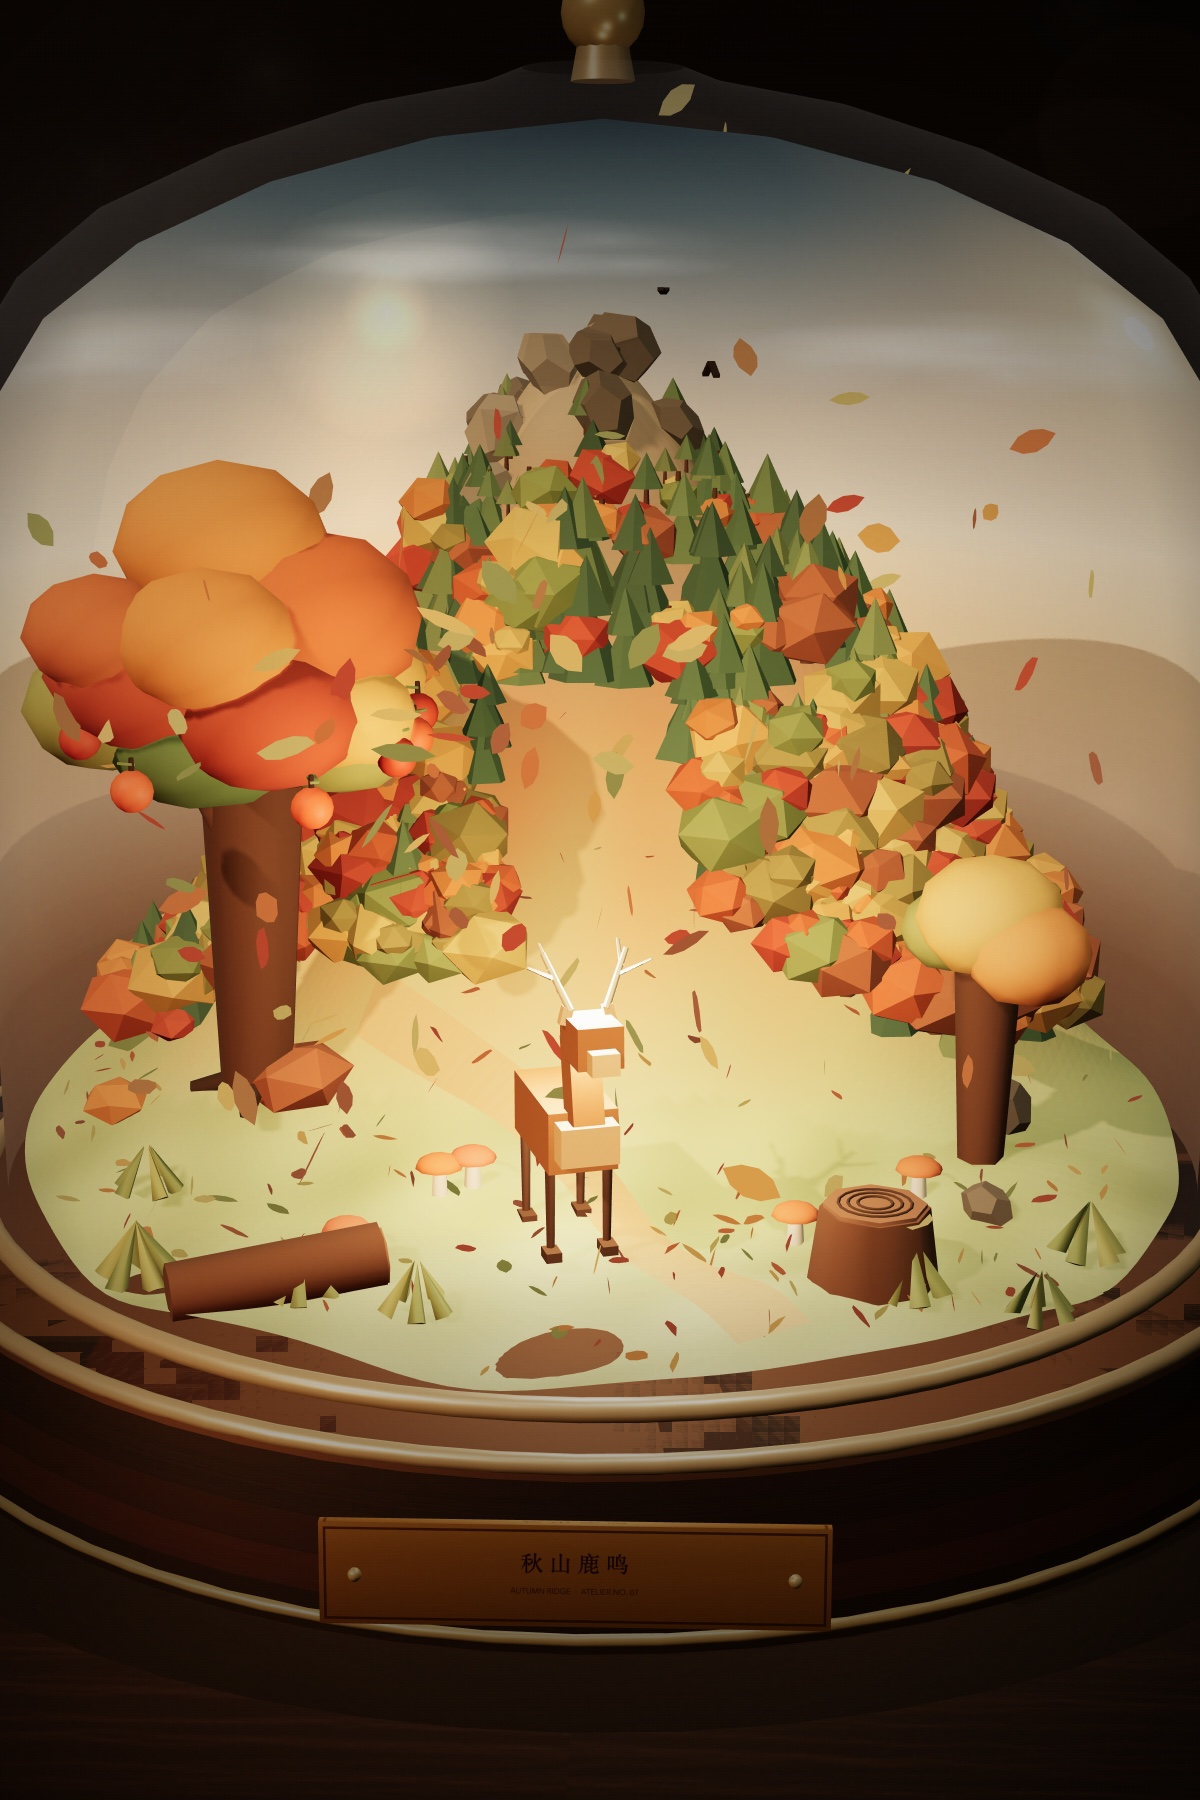
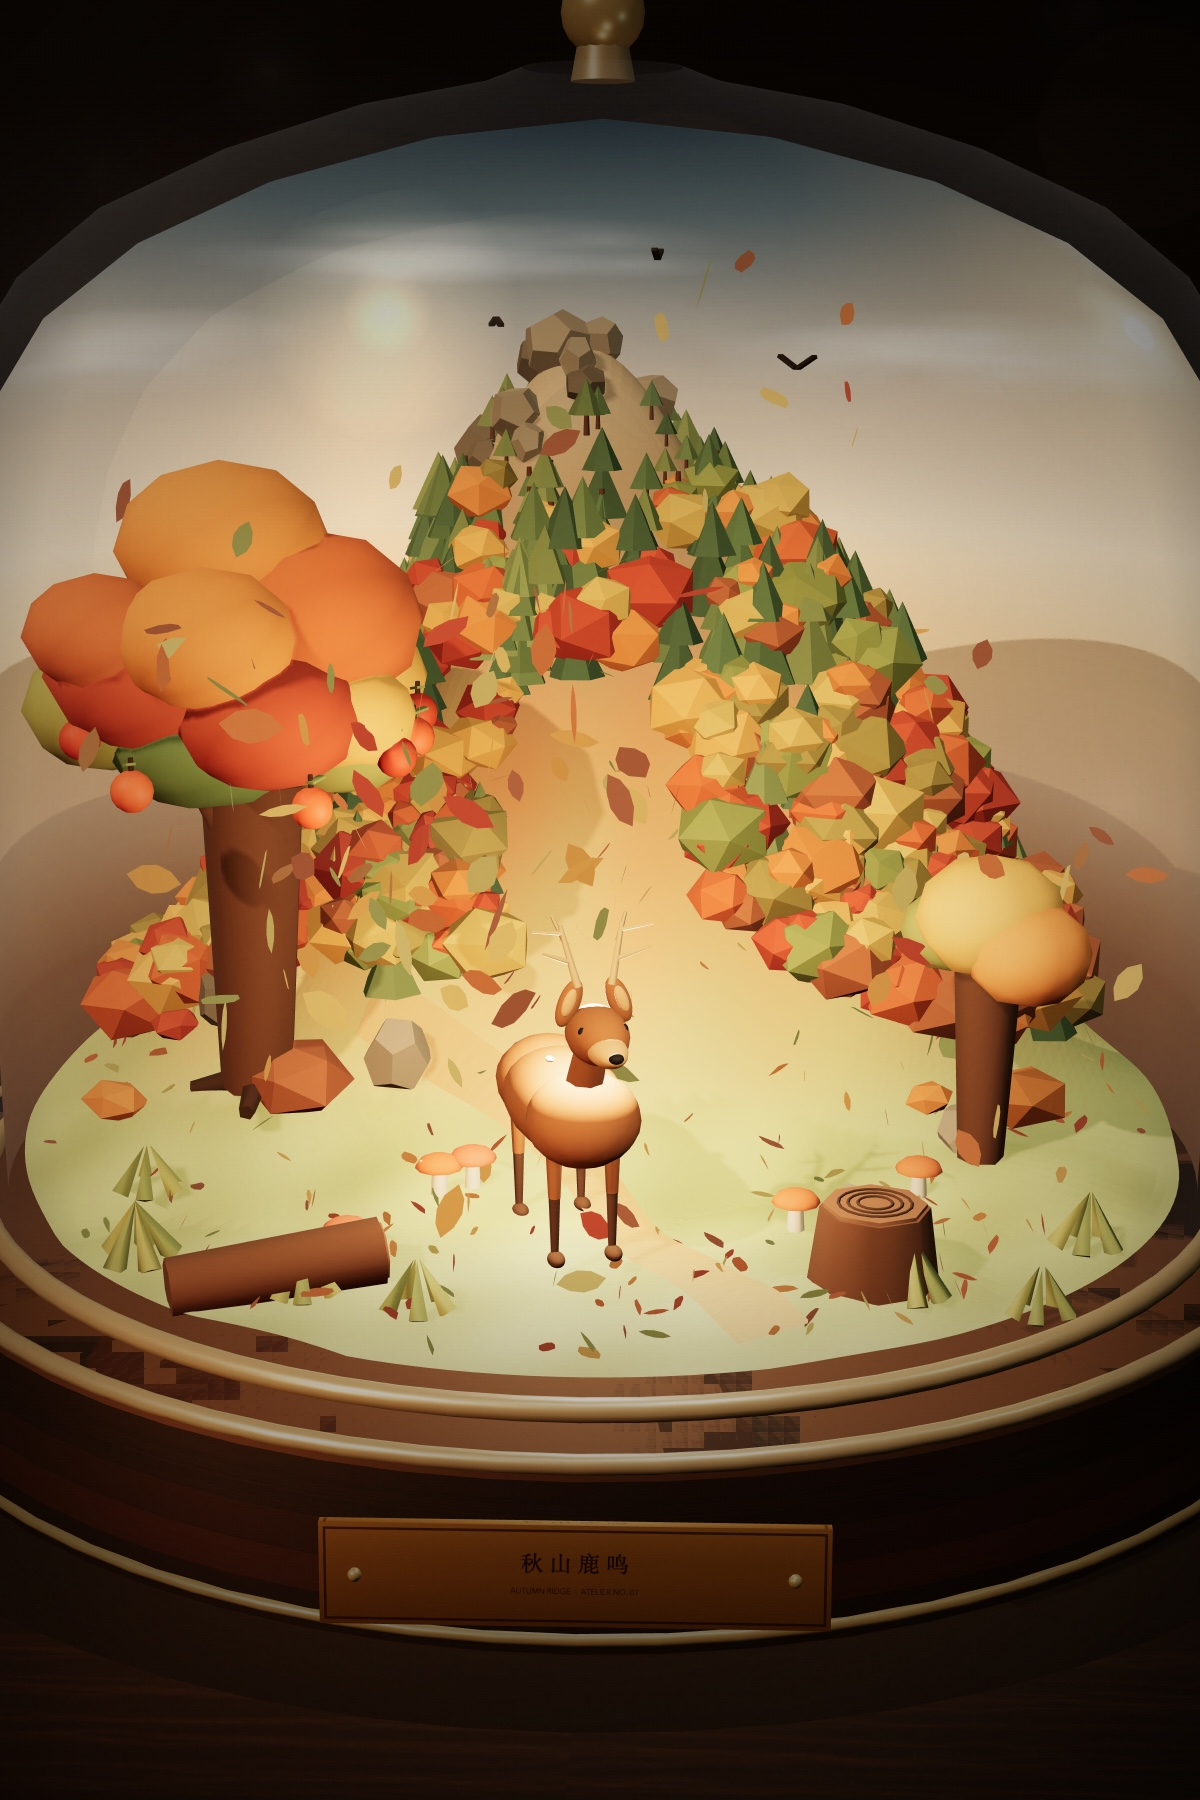
feat: 精修秋林动物、修正地面闪斑并统一翻转拖拽纵向视角
- 重做鹿/熊/狐/松鼠模型，改用平滑椭圆、锥形耳、曲线尾巴与完整四肢，熊增加口鼻、耳朵和爪垫细节
- 地块高度增加下限，避免边缘沉入底座产生浅深斑块闪烁
- 七个作品统一反转鼠标拖拽的纵向视角方向
- 重新生成秋山鹿鸣海报

diff --git a/autumn-forest/index.html b/autumn-forest/index.html
@@ -319,10 +319,10 @@ const M = {
   fruit: std(0xd85a34, .58),
   fruitDark: std(0xb84227, .62),
   fruitLeaf: std(0x77854a, .85),
-  deer: std(0x9a6236, .86),
-  deerLight: std(0xcfa573, .86),
+  deer: std(0x8f5a33, .88),
+  deerLight: std(0xc49563, .88),
   deerDark: std(0x503522, .86),
-  antler: std(0xdcc79c, .78),
+  antler: std(0xb99b6b, .82),
   bear: std(0x5c3d29, .9),
   bearDark: std(0x3a2517, .92),
   bearSnout: std(0xb78c60, .88),
@@ -561,6 +561,36 @@ function blob(parent, sx, sy, sz, mat, x = 0, y = 0, z = 0, detail = 1){
   parent.add(m);
   return m;
 }
+const ORB_GEO = new THREE.SphereGeometry(1, 18, 12);
+const CONE_GEO = new THREE.ConeGeometry(1, 1, 8);
+function orb(parent, sx, sy, sz, mat, x = 0, y = 0, z = 0, rx = 0, ry = 0, rz = 0){
+  const m = new THREE.Mesh(ORB_GEO, mat);
+  m.scale.set(sx, sy, sz);
+  m.position.set(x, y, z);
+  m.rotation.set(rx, ry, rz);
+  m.castShadow = true;
+  m.receiveShadow = true;
+  parent.add(m);
+  return m;
+}
+function cone(parent, radius, height, mat, x = 0, y = 0, z = 0, rx = 0, ry = 0, rz = 0){
+  const m = new THREE.Mesh(CONE_GEO, mat);
+  m.scale.set(radius, height, radius);
+  m.position.set(x, y, z);
+  m.rotation.set(rx, ry, rz);
+  m.castShadow = true;
+  m.receiveShadow = true;
+  parent.add(m);
+  return m;
+}
+function curveTube(parent, points, radius, mat, segments = 18, radial = 8){
+  const curve = new THREE.CatmullRomCurve3(points);
+  const m = new THREE.Mesh(new THREE.TubeGeometry(curve, segments, radius, radial, false), mat);
+  m.castShadow = true;
+  m.receiveShadow = true;
+  parent.add(m);
+  return m;
+}
 function softSprite(color, scale, opacity, additive = false){
   const mat = new THREE.SpriteMaterial({
     map: softTex, color, transparent: true, opacity,
@@ -772,7 +802,7 @@ function terrainH(x, z){
   const shoulder = .38 * Math.exp(-(((x + 1.14) ** 2) / .8 + ((z + .18) ** 2) / .5));
   const ripple = .035 * Math.sin(x * 4.2 + z * 3.1) + .022 * Math.cos(z * 5.4 - x * 2.2);
   const clearing = .012 * Math.sin(x * 7.0 + 1.2) * Math.cos(z * 6.0);
-  return .048 + peakA + peakB + shoulder + ripple + clearing;
+  return Math.max(.06, .048 + peakA + peakB + shoulder + ripple + clearing);
 }
 
 const RINGS = 54, SEGS = 168;
@@ -1520,38 +1550,47 @@ function makeDeer(){
   const root = new THREE.Group();
   const parts = { kind: 'deer', speed: .42, name: '小鹿', root, legs: [] };
   const body = new THREE.Group();
-  body.position.y = .32;
+  body.position.y = .37;
   root.add(body);
-  block(body, .18, .16, .36, M.deer, 0, 0, 0);
-  block(body, .15, .1, .16, M.deerLight, 0, .01, .17);
-  const neck = block(body, .08, .22, .09, M.deer, 0, .16, .17, -.22);
+  orb(body, .15, .12, .3, M.deer, 0, 0, 0);
+  orb(body, .145, .12, .14, M.deer, 0, .01, .18);
+  orb(body, .14, .115, .14, M.deer, 0, .005, -.17);
+  orb(body, .06, .05, .045, M.deerLight, 0, -.03, .215);
+  orb(body, .012, .007, .018, M.cream, -.055, .135, .06);
+  orb(body, .01, .006, .016, M.cream, .065, .13, -.04);
+  cylBetween(root, new THREE.Vector3(0, .43, .16), new THREE.Vector3(0, .61, .27), .052, .042, M.deer, 8);
   const head = new THREE.Group();
-  head.position.set(0, .27, .23);
-  body.add(head);
-  block(head, .115, .105, .17, M.deer, 0, .02, .03);
-  block(head, .07, .055, .075, M.deerLight, 0, -.008, .125);
-  block(head, .026, .045, .025, M.deerLight, -.055, .075, -.01, 0, 0, -.25);
-  block(head, .026, .045, .025, M.deerLight, .055, .075, -.01, 0, 0, .25);
-  block(head, .022, .022, .016, M.black, -.04, .04, .095);
-  block(head, .022, .022, .016, M.black, .04, .04, .095);
+  head.position.set(0, .64, .29);
+  root.add(head);
+  orb(head, .075, .07, .12, M.deer, 0, 0, .02);
+  orb(head, .048, .038, .085, M.deerLight, 0, -.012, .105);
+  orb(head, .018, .013, .018, M.black, 0, -.006, .188);
   for (const side of [-1, 1]){
+    orb(head, .012, .012, .01, M.black, side * .05, .028, .072);
+    orb(head, .028, .062, .016, M.deer, side * .062, .075, -.012, 0, 0, side * .38);
+    orb(head, .015, .036, .009, M.deerLight, side * .066, .08, .002, 0, 0, side * .38);
     const a = new THREE.Group();
-    a.position.set(side * .045, .09, .0);
+    a.position.set(side * .042, .115, -.005);
     head.add(a);
-    cylBetween(a, new THREE.Vector3(0, 0, 0), new THREE.Vector3(side * .06, .14, -.03), .01, .007, M.antler, 4);
-    cylBetween(a, new THREE.Vector3(side * .04, .08, -.018), new THREE.Vector3(side * .11, .12, .02), .007, .004, M.antler, 4);
-    cylBetween(a, new THREE.Vector3(side * .045, .1, -.02), new THREE.Vector3(side * .055, .15, -.09), .007, .004, M.antler, 4);
+    cylBetween(a, new THREE.Vector3(0, 0, 0), new THREE.Vector3(side * .035, .145, -.035), .011, .006, M.antler, 5);
+    cylBetween(a, new THREE.Vector3(side * .018, .06, -.015), new THREE.Vector3(side * .09, .095, .02), .008, .004, M.antler, 4);
+    cylBetween(a, new THREE.Vector3(side * .022, .1, -.025), new THREE.Vector3(side * .05, .165, -.055), .007, .004, M.antler, 4);
+    cylBetween(a, new THREE.Vector3(side * .03, .128, -.03), new THREE.Vector3(side * .11, .14, -.02), .006, .003, M.antler, 4);
   }
-  const hips = [[-.075, .13], [.075, .13], [-.075, -.13], [.075, -.13]];
+  const hips = [[-.075, .18], [.075, .18], [-.085, -.16], [.085, -.16]];
   for (const [hx, hz] of hips){
     const leg = new THREE.Group();
-    leg.position.set(hx, .3, hz);
+    leg.position.set(hx, .35, hz);
     root.add(leg);
-    cylBetween(leg, new THREE.Vector3(0, 0, 0), new THREE.Vector3(0, -.27, 0), .015, .011, M.deerDark, 5);
-    block(leg, .04, .025, .06, M.deerDark, 0, -.285, .012);
+    cylBetween(leg, new THREE.Vector3(0, 0, 0), new THREE.Vector3(0, -.17, 0), .024, .016, M.deer, 7);
+    cylBetween(leg, new THREE.Vector3(0, -.17, 0), new THREE.Vector3(0, -.315, 0), .015, .01, M.deerDark, 7);
+    orb(leg, .022, .019, .034, M.deerDark, 0, -.33, .012);
     parts.legs.push(leg);
   }
-  const tail = block(root, .035, .06, .03, M.deerLight, 0, .31, -.2, .35);
+  const tail = new THREE.Group();
+  tail.position.set(0, .41, -.31);
+  root.add(tail);
+  orb(tail, .028, .05, .025, M.deerLight, 0, 0, 0, .4, 0, 0);
   parts.head = head;
   parts.tail = tail;
   root.castShadow = true;
@@ -1561,96 +1600,132 @@ function makeDeer(){
 function makeBear(){
   const root = new THREE.Group();
   const parts = { kind: 'bear', speed: .3, name: '熊', root, legs: [] };
-  const body = blob(root, .24, .23, .34, M.bear, 0, .27, 0, 1);
-  body.castShadow = true;
-  blob(root, .19, .17, .2, M.bear, 0, .37, .15, 1);
-  const head = new THREE.Group();
-  head.position.set(0, .42, .27);
-  root.add(head);
-  blob(head, .12, .11, .12, M.bear, 0, 0, 0, 1);
-  blob(head, .06, .05, .07, M.bearSnout, 0, -.002, .095, 1);
-  const nose = block(head, .03, .022, .02, M.black, 0, .015, .14, 0, 0, 0, false);
-  for (const side of [-1, 1]){
-    blob(head, .035, .035, .02, M.bearDark, side * .075, .07, -.01, 0);
-    block(head, .014, .014, .012, M.black, side * .04, .025, .075, 0, 0, 0, false);
-  }
-  for (const [x, z] of [[-.11, .13], [.11, .13], [-.11, -.13], [.11, -.13]]){
+  for (const [x, z] of [[-.14, .2], [.14, .2], [-.15, -.17], [.15, -.17]]){
     const leg = new THREE.Group();
-    leg.position.set(x, .18, z);
+    leg.position.set(x, .29, z);
     root.add(leg);
-    cylBetween(leg, new THREE.Vector3(0, 0, 0), new THREE.Vector3(0, -.16, 0), .032, .026, M.bearDark, 5);
-    block(leg, .07, .035, .09, M.bearDark, 0, -.17, .012);
+    cylBetween(leg, new THREE.Vector3(0, 0, 0), new THREE.Vector3(0, -.23, 0), .06, .048, M.bear, 8);
+    orb(leg, .065, .03, .09, M.bearDark, 0, -.25, .02);
     parts.legs.push(leg);
   }
-  const tail = blob(root, .04, .04, .035, M.bearDark, 0, .3, -.2, 0);
+  orb(root, .235, .2, .34, M.bear, 0, .35, .01);
+  orb(root, .18, .15, .19, M.bear, 0, .44, .12);
+  orb(root, .19, .17, .17, M.bear, 0, .34, -.19);
+  orb(root, .16, .15, .14, M.bear, 0, .35, .24);
+  orb(root, .08, .07, .06, M.bearDark, 0, .4, .27);
+  const head = new THREE.Group();
+  head.position.set(0, .49, .34);
+  root.add(head);
+  orb(head, .14, .13, .135, M.bear, 0, 0, 0);
+  orb(head, .08, .065, .1, M.bearSnout, 0, -.025, .12);
+  orb(head, .03, .022, .03, M.black, 0, -.018, .215);
+  for (const side of [-1, 1]){
+    orb(head, .055, .06, .035, M.bear, side * .09, .115, -.015, 0, 0, side * .16);
+    orb(head, .028, .035, .014, M.bearDark, side * .09, .115, .008, 0, 0, side * .16);
+    orb(head, .012, .013, .012, M.black, side * .055, .035, .118);
+  }
+  const tail = orb(root, .05, .04, .04, M.bearDark, 0, .43, -.36);
   parts.head = head;
   parts.tail = tail;
+  root.castShadow = true;
+  root.traverse(o => { if (o.isMesh){ o.castShadow = true; o.receiveShadow = true; } });
   return parts;
 }
 function makeFox(){
   const root = new THREE.Group();
   const parts = { kind: 'fox', speed: .55, name: '赤狐', root, legs: [] };
-  const body = block(root, .11, .1, .28, M.fox, 0, .17, 0);
-  block(root, .08, .07, .11, M.foxLight, 0, .13, .12);
-  const head = new THREE.Group();
-  head.position.set(0, .24, .16);
-  root.add(head);
-  block(head, .1, .09, .13, M.fox, 0, 0, .02);
-  block(head, .055, .04, .06, M.foxLight, 0, -.025, .1);
-  block(head, .02, .018, .016, M.black, 0, -.005, .135, 0, 0, 0, false);
-  for (const side of [-1, 1]){
-    const ear = block(head, .035, .065, .025, M.fox, side * .04, .075, -.01, 0, 0, side * .12);
-    block(head, .02, .025, .012, M.foxDark, side * .04, .04, .075, 0, 0, 0, false);
-  }
-  for (const [x, z] of [[-.04, .1], [.04, .1], [-.04, -.1], [.04, -.1]]){
+  for (const [x, z] of [[-.05, .14], [.05, .14], [-.055, -.13], [.055, -.13]]){
     const leg = new THREE.Group();
-    leg.position.set(x, .13, z);
+    leg.position.set(x, .16, z);
     root.add(leg);
-    cylBetween(leg, new THREE.Vector3(0, 0, 0), new THREE.Vector3(0, -.12, 0), .011, .008, M.foxDark, 4);
+    cylBetween(leg, new THREE.Vector3(0, 0, 0), new THREE.Vector3(0, -.13, 0), .016, .011, M.foxDark, 6);
+    orb(leg, .022, .014, .03, M.foxDark, 0, -.145, .008);
     parts.legs.push(leg);
   }
+  orb(root, .12, .095, .29, M.fox, 0, .21, 0);
+  orb(root, .095, .085, .1, M.fox, 0, .22, -.11);
+  orb(root, .07, .06, .09, M.foxLight, 0, .185, .17);
+  cylBetween(root, new THREE.Vector3(0, .25, .14), new THREE.Vector3(0, .32, .24), .048, .035, M.fox, 7);
+  const head = new THREE.Group();
+  head.position.set(0, .34, .27);
+  root.add(head);
+  orb(head, .082, .07, .095, M.fox, 0, 0, .01);
+  orb(head, .045, .038, .04, M.foxLight, 0, -.022, .075);
+  cylBetween(head, new THREE.Vector3(0, -.012, .07), new THREE.Vector3(0, -.022, .195), .04, .012, M.foxLight, 7);
+  orb(head, .018, .014, .016, M.black, 0, -.012, .215);
+  for (const side of [-1, 1]){
+    cone(head, .055, .1, M.fox, side * .052, .088, -.018, -.05, 0, side * .2);
+    cone(head, .026, .06, M.foxDark, side * .054, .09, -.002, -.05, 0, side * .2);
+    orb(head, .012, .013, .012, M.black, side * .042, .022, .058);
+  }
   const tail = new THREE.Group();
-  tail.position.set(0, .22, -.16);
+  tail.position.set(0, .24, -.2);
   root.add(tail);
-  const t1 = blob(tail, .055, .05, .13, M.fox, 0, .02, -.06, 0);
-  t1.rotation.x = -.45;
-  const t2 = blob(tail, .045, .04, .07, M.foxLight, 0, .07, -.15, 0);
-  t2.rotation.x = -.25;
+  const tailBase = new THREE.Group();
+  tailBase.rotation.y = .5;
+  tail.add(tailBase);
+  curveTube(tailBase, [
+    new THREE.Vector3(0, .01, 0),
+    new THREE.Vector3(.02, .04, -.11),
+    new THREE.Vector3(.06, .09, -.21),
+    new THREE.Vector3(.09, .15, -.29),
+    new THREE.Vector3(.1, .21, -.33)
+  ], .068, M.fox, 20, 9);
+  orb(tailBase, .06, .06, .07, M.fox, 0, .01, -.02, -.5, 0, 0);
+  orb(tailBase, .04, .04, .055, M.foxLight, .1, .22, -.34, -.1, 0, 0);
   parts.head = head;
   parts.tail = tail;
+  root.castShadow = true;
+  root.traverse(o => { if (o.isMesh){ o.castShadow = true; o.receiveShadow = true; } });
   return parts;
 }
 function makeSquirrel(){
   const root = new THREE.Group();
   const parts = { kind: 'squirrel', speed: .48, name: '松鼠', root, legs: [] };
-  block(root, .075, .1, .1, M.squirrel, 0, .1, 0);
-  block(root, .055, .05, .06, M.squirrelLight, 0, .1, .05);
-  const head = new THREE.Group();
-  head.position.set(0, .18, .04);
-  root.add(head);
-  block(head, .075, .07, .085, M.squirrel, 0, 0, .02);
-  block(head, .04, .03, .035, M.squirrelLight, 0, -.015, .07);
-  block(head, .018, .016, .012, M.black, 0, .015, .065, 0, 0, 0, false);
-  for (const side of [-1, 1]){
-    block(head, .022, .035, .014, M.squirrel, side * .03, .055, -.005, 0, 0, side * .14);
-    block(head, .012, .012, .01, M.black, side * .028, .02, .055, 0, 0, 0, false);
-  }
-  for (const [x, z] of [[-.03, .04], [.03, .04], [-.03, -.04], [.03, -.04]]){
+  for (const [x, z] of [[-.035, .025], [.035, .025], [-.04, -.03], [.04, -.03]]){
     const leg = new THREE.Group();
-    leg.position.set(x, .07, z);
+    leg.position.set(x, .12, z);
     root.add(leg);
-    cylBetween(leg, new THREE.Vector3(0, 0, 0), new THREE.Vector3(0, -.06, 0), .009, .007, M.squirrel, 4);
+    cylBetween(leg, new THREE.Vector3(0, 0, 0), new THREE.Vector3(0, -.1, 0), .014, .01, M.squirrel, 6);
+    orb(leg, .022, .012, .03, M.squirrelLight, 0, -.105, .008);
     parts.legs.push(leg);
   }
+  orb(root, .075, .11, .075, M.squirrel, 0, .14, 0);
+  orb(root, .05, .06, .05, M.squirrel, 0, .1, -.03);
+  orb(root, .042, .055, .014, M.squirrelLight, 0, .145, .062);
+  orb(root, .015, .018, .012, M.squirrelLight, -.05, .155, .058);
+  orb(root, .015, .018, .012, M.squirrelLight, .05, .155, .058);
+  const head = new THREE.Group();
+  head.position.set(0, .265, .02);
+  root.add(head);
+  orb(head, .07, .065, .07, M.squirrel, 0, 0, 0);
+  orb(head, .035, .028, .04, M.squirrelLight, 0, -.008, .07);
+  orb(head, .012, .01, .012, M.black, 0, -.002, .112);
+  for (const side of [-1, 1]){
+    orb(head, .026, .02, .026, M.squirrelLight, side * .043, .01, .045);
+    orb(head, .011, .011, .01, M.black, side * .032, .022, .052);
+    cone(head, .024, .06, M.squirrel, side * .045, .068, -.008, 0, 0, side * .14);
+    cone(head, .012, .035, M.squirrelLight, side * .045, .075, .004, 0, 0, side * .14);
+  }
   const tail = new THREE.Group();
-  tail.position.set(0, .14, -.06);
+  tail.position.set(0, .17, -.07);
   root.add(tail);
-  blob(tail, .055, .09, .05, M.squirrel, 0, .06, -.05, 0).rotation.x = -.35;
-  blob(tail, .045, .08, .04, M.squirrel, 0, .14, -.09, 0).rotation.x = -.2;
-  blob(tail, .026, .042, .026, M.squirrel, 0, .2, -.1, 0);
-  blob(tail, .014, .02, .014, M.squirrelLight, 0, .235, -.105, 0);
+  const tailBase = new THREE.Group();
+  tailBase.rotation.y = .42;
+  tail.add(tailBase);
+  curveTube(tailBase, [
+    new THREE.Vector3(0, 0, 0),
+    new THREE.Vector3(0, .06, -.09),
+    new THREE.Vector3(.015, .14, -.16),
+    new THREE.Vector3(.03, .22, -.2),
+    new THREE.Vector3(.035, .295, -.16)
+  ], .064, M.squirrel, 22, 9);
+  orb(tailBase, .05, .05, .05, M.squirrel, 0, .01, -.02, 0, 0, 0);
+  orb(tailBase, .032, .04, .03, M.squirrelLight, .035, .3, -.155, 0, 0, 0);
   parts.head = head;
   parts.tail = tail;
+  root.castShadow = true;
+  root.traverse(o => { if (o.isMesh){ o.castShadow = true; o.receiveShadow = true; } });
   return parts;
 }
 animalModels.deer = makeDeer();
@@ -1661,8 +1736,8 @@ for (const key in animalModels){
   const a = animalModels[key];
   a.root.visible = false;
   jarRig.add(a.root);
-  const proxy = new THREE.Mesh(new THREE.SphereGeometry(key === 'deer' ? .3 : key === 'bear' ? .28 : key === 'fox' ? .18 : .14, 8, 6), new THREE.MeshBasicMaterial({ transparent:true, opacity:0, depthWrite:false, colorWrite:false }));
-  proxy.position.set(0, key === 'squirrel' ? .12 : .25, 0);
+  const proxy = new THREE.Mesh(new THREE.SphereGeometry(key === 'deer' ? .34 : key === 'bear' ? .38 : key === 'fox' ? .22 : .16, 10, 8), new THREE.MeshBasicMaterial({ transparent:true, opacity:0, depthWrite:false, colorWrite:false }));
+  proxy.position.set(0, key === 'deer' ? .34 : key === 'bear' ? .33 : key === 'fox' ? .22 : .18, 0);
   proxy.visible = true;
   proxy.userData.kind = 'animal';
   proxy.userData.animal = key;
@@ -1954,7 +2029,7 @@ canvas.addEventListener('pointermove', (e) => {
   prevPointer = { x: e.clientX, y: e.clientY };
   pointerTravel += Math.abs(dx) + Math.abs(dy);
   view.tAz = clamp(view.tAz - dx * .0046, -.62, .62);
-  view.tPolar = clamp(view.tPolar + dy * .0032, .91, 1.43);
+  view.tPolar = clamp(view.tPolar - dy * .0032, .91, 1.43);
   noteInteraction();
 });
 function endPointer(e, allowClick){

diff --git a/classroom-80s/index.html b/classroom-80s/index.html
@@ -2588,7 +2588,7 @@ canvas.addEventListener('pointermove', (e) => {
   prevPointer = { x: e.clientX, y: e.clientY };
   pointerMoved += Math.abs(dx) + Math.abs(dy);
   view.tAz = clamp(view.tAz - dx * .004, -.16, .48);
-  view.tPolar = clamp(view.tPolar + dy * .0026, 1.37, 1.49);
+  view.tPolar = clamp(view.tPolar - dy * .0026, 1.37, 1.49);
 });
 function endPointer(e, allowClick){
   const wasDragging = dragging;

diff --git a/tide-holiday/index.html b/tide-holiday/index.html
@@ -2619,7 +2619,7 @@ canvas.addEventListener('pointermove', (e) => {
   prevPointer = { x: e.clientX, y: e.clientY };
   pointerTravel += Math.abs(dx) + Math.abs(dy);
   view.tAz = clamp(view.tAz - dx * .0046, -.62, .62);
-  view.tPolar = clamp(view.tPolar + dy * .0032, .91, 1.43);
+  view.tPolar = clamp(view.tPolar - dy * .0032, .91, 1.43);
   noteInteraction();
 });
 function endPointer(e, allowClick){

diff --git a/snow-sophia/index.html b/snow-sophia/index.html
@@ -3790,7 +3790,7 @@ canvas.addEventListener('pointermove', (e) => {
   prevPointer = { x: e.clientX, y: e.clientY };
   pointerMoved += Math.abs(dx) + Math.abs(dy);
   view.tAz = clamp(view.tAz - dx * .0052, -1.05, 1.05);
-  view.tPolar = clamp(view.tPolar + dy * .0036, .82, 1.43);
+  view.tPolar = clamp(view.tPolar - dy * .0036, .82, 1.43);
   noteInteraction();
 });
 

diff --git a/tea-mountain/index.html b/tea-mountain/index.html
@@ -2343,7 +2343,7 @@ canvas.addEventListener('pointermove', (e) => {
   prevPointer = { x: e.clientX, y: e.clientY };
   pointerMoved += Math.abs(dx) + Math.abs(dy);
   view.tAz = clamp(view.tAz - dx * .0048, -.7, .7);
-  view.tPolar = clamp(view.tPolar + dy * .0032, .82, 1.22);
+  view.tPolar = clamp(view.tPolar - dy * .0032, .82, 1.22);
   noteInteraction();
 });
 

diff --git a/lantern-changan/index.html b/lantern-changan/index.html
@@ -1977,7 +1977,7 @@ canvas.addEventListener('pointermove', (e) => {
     spinVel = clamp(-dx * .09, -1.5, 1.5);
   } else {
     view.tAz = clamp(view.tAz - dx * .0044, -.58, .58);
-    view.tPolar = clamp(view.tPolar + dy * .003, .9, 1.27);
+    view.tPolar = clamp(view.tPolar - dy * .003, .9, 1.27);
   }
   noteInteraction();
 });

diff --git a/bottle-sea/index.html b/bottle-sea/index.html
@@ -4599,7 +4599,7 @@ canvas.addEventListener('pointermove', (e)=>{
   prevPointer.x = e.clientX;
   prevPointer.y = e.clientY;
   view.tAz -= dx * .0052;
-  view.tPolar = clamp(view.tPolar + dy * .0036, .56, 1.42);
+  view.tPolar = clamp(view.tPolar - dy * .0036, .56, 1.42);
   noteInteraction();
 });
 function endDrag(e){
